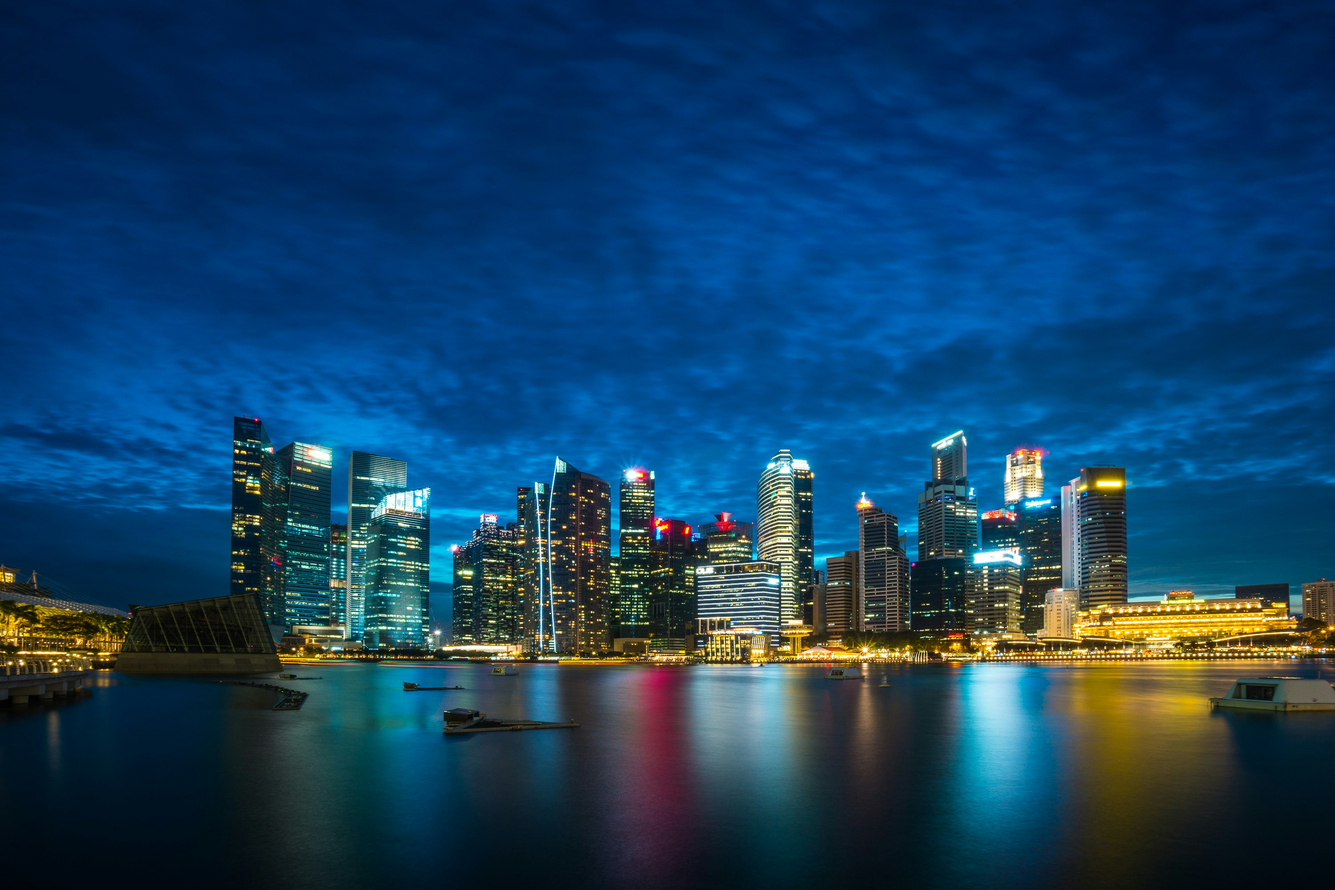
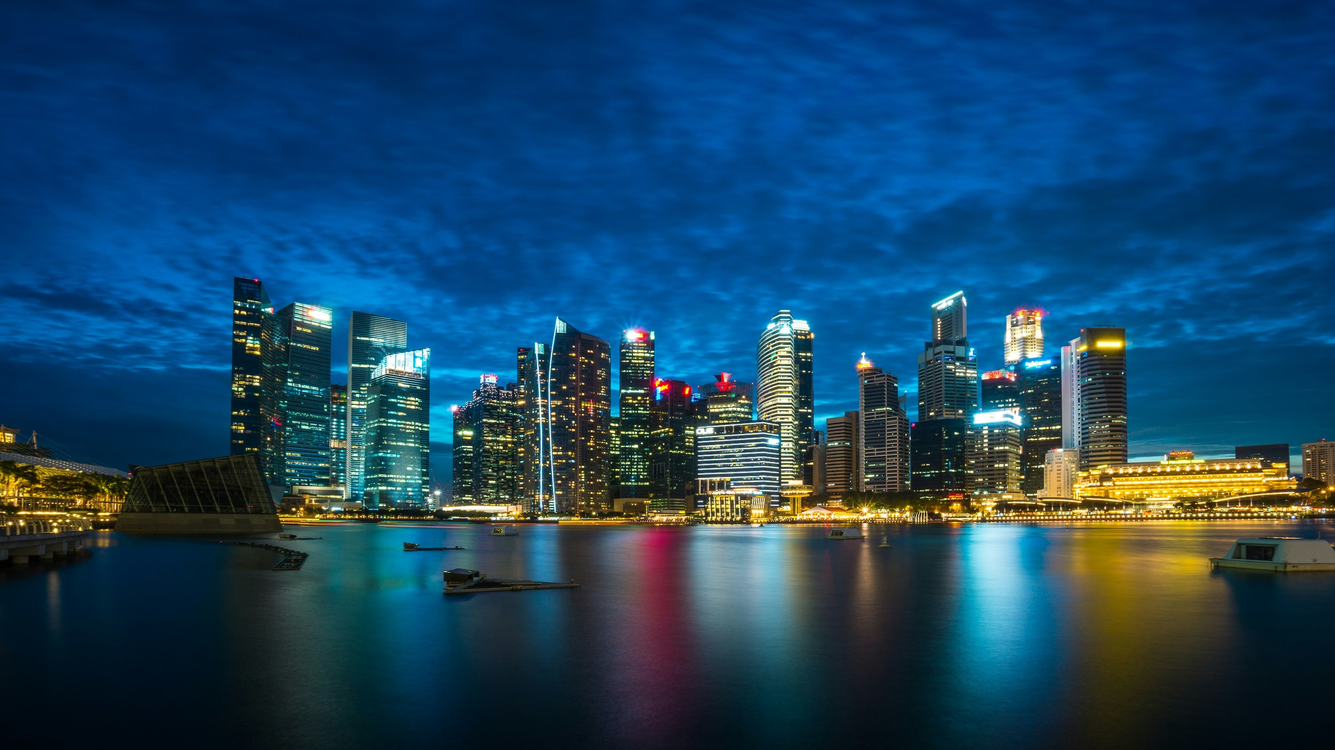
style: swap first hero slide image to bg1
Use bg1.png as the first slide background and update bg2.jpg asset.

diff --git a/components/sections/HeroSection.tsx b/components/sections/HeroSection.tsx
@@ -19,7 +19,7 @@ interface HeroSlide {
 
 const slides: HeroSlide[] = [
   {
-    image: '/images/background/bg2.jpg',
+    image: '/images/background/bg1.png',
     headline: 'AI-Powered Facility Intelligence',
     description:
       'Transform building operations with predictive analytics and real-time monitoring across your entire facility portfolio.',
